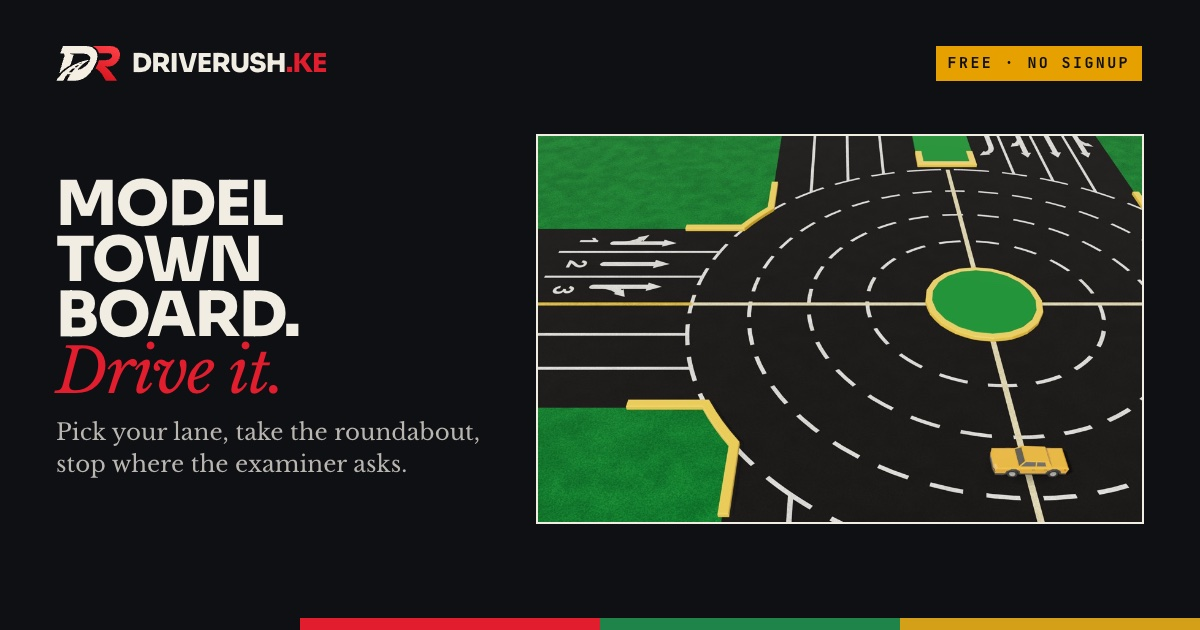
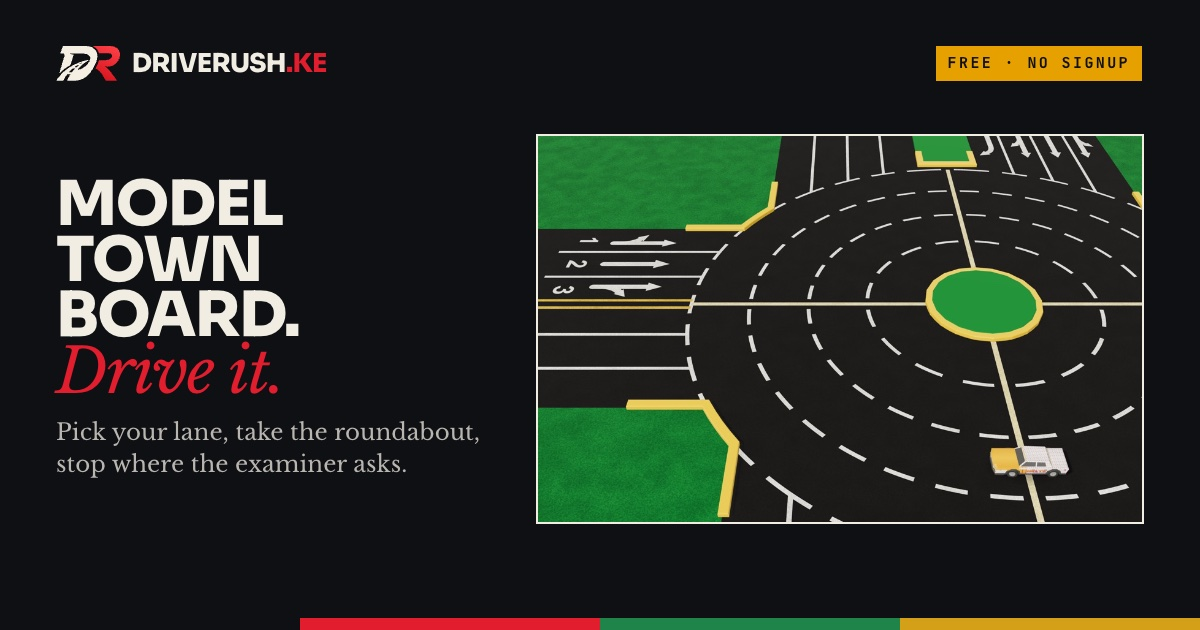
feat: Heltz everywhere: the default school, and on the board's pictures
Heltz Driving Academy is the board's only school for now (owner), so it
is also the fallback school, and the board's thumbnail and its link
preview now show the learner's car in Heltz's paint.

diff --git a/app/lib/board/sponsors.ts b/app/lib/board/sponsors.ts
@@ -76,8 +76,11 @@ export const SPONSORS: readonly Sponsor[] = [
   },
 ];
 
-/** The school everyone sees when no other is picked. None chosen yet. */
-export const DEFAULT_SPONSOR: string | null = null;
+/**
+ * The school everyone sees when no other is picked: Heltz, the board's only
+ * school for now (owner, 2026-11-21).
+ */
+export const DEFAULT_SPONSOR: string | null = "heltz";
 
 export function sponsorById(id: string | null | undefined): Sponsor | null {
   if (!id) return null;
